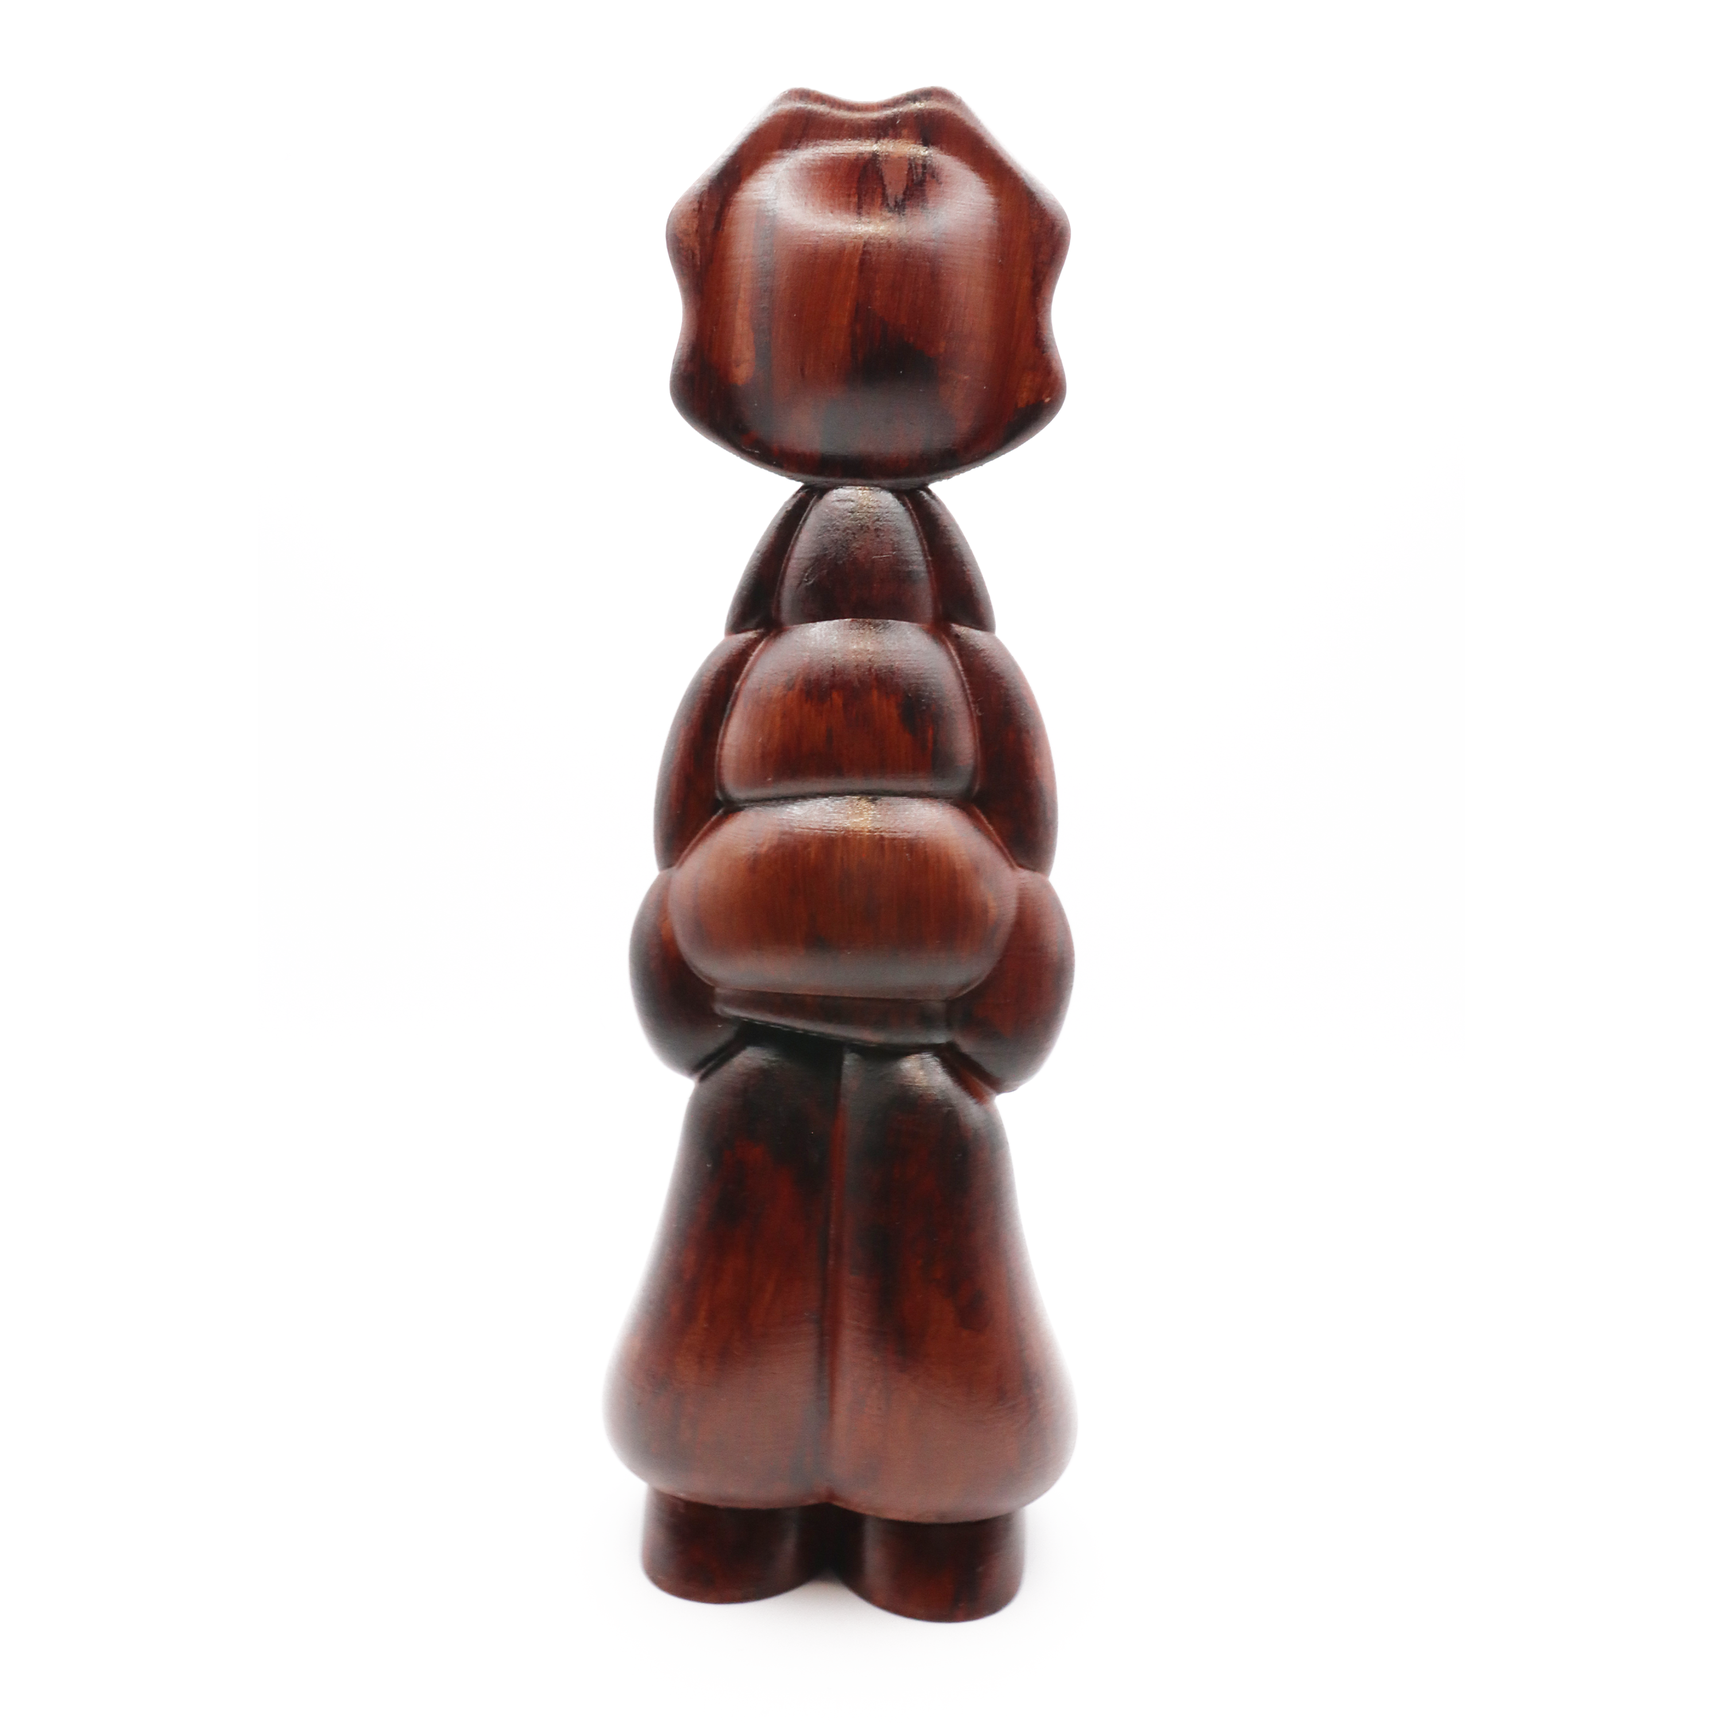
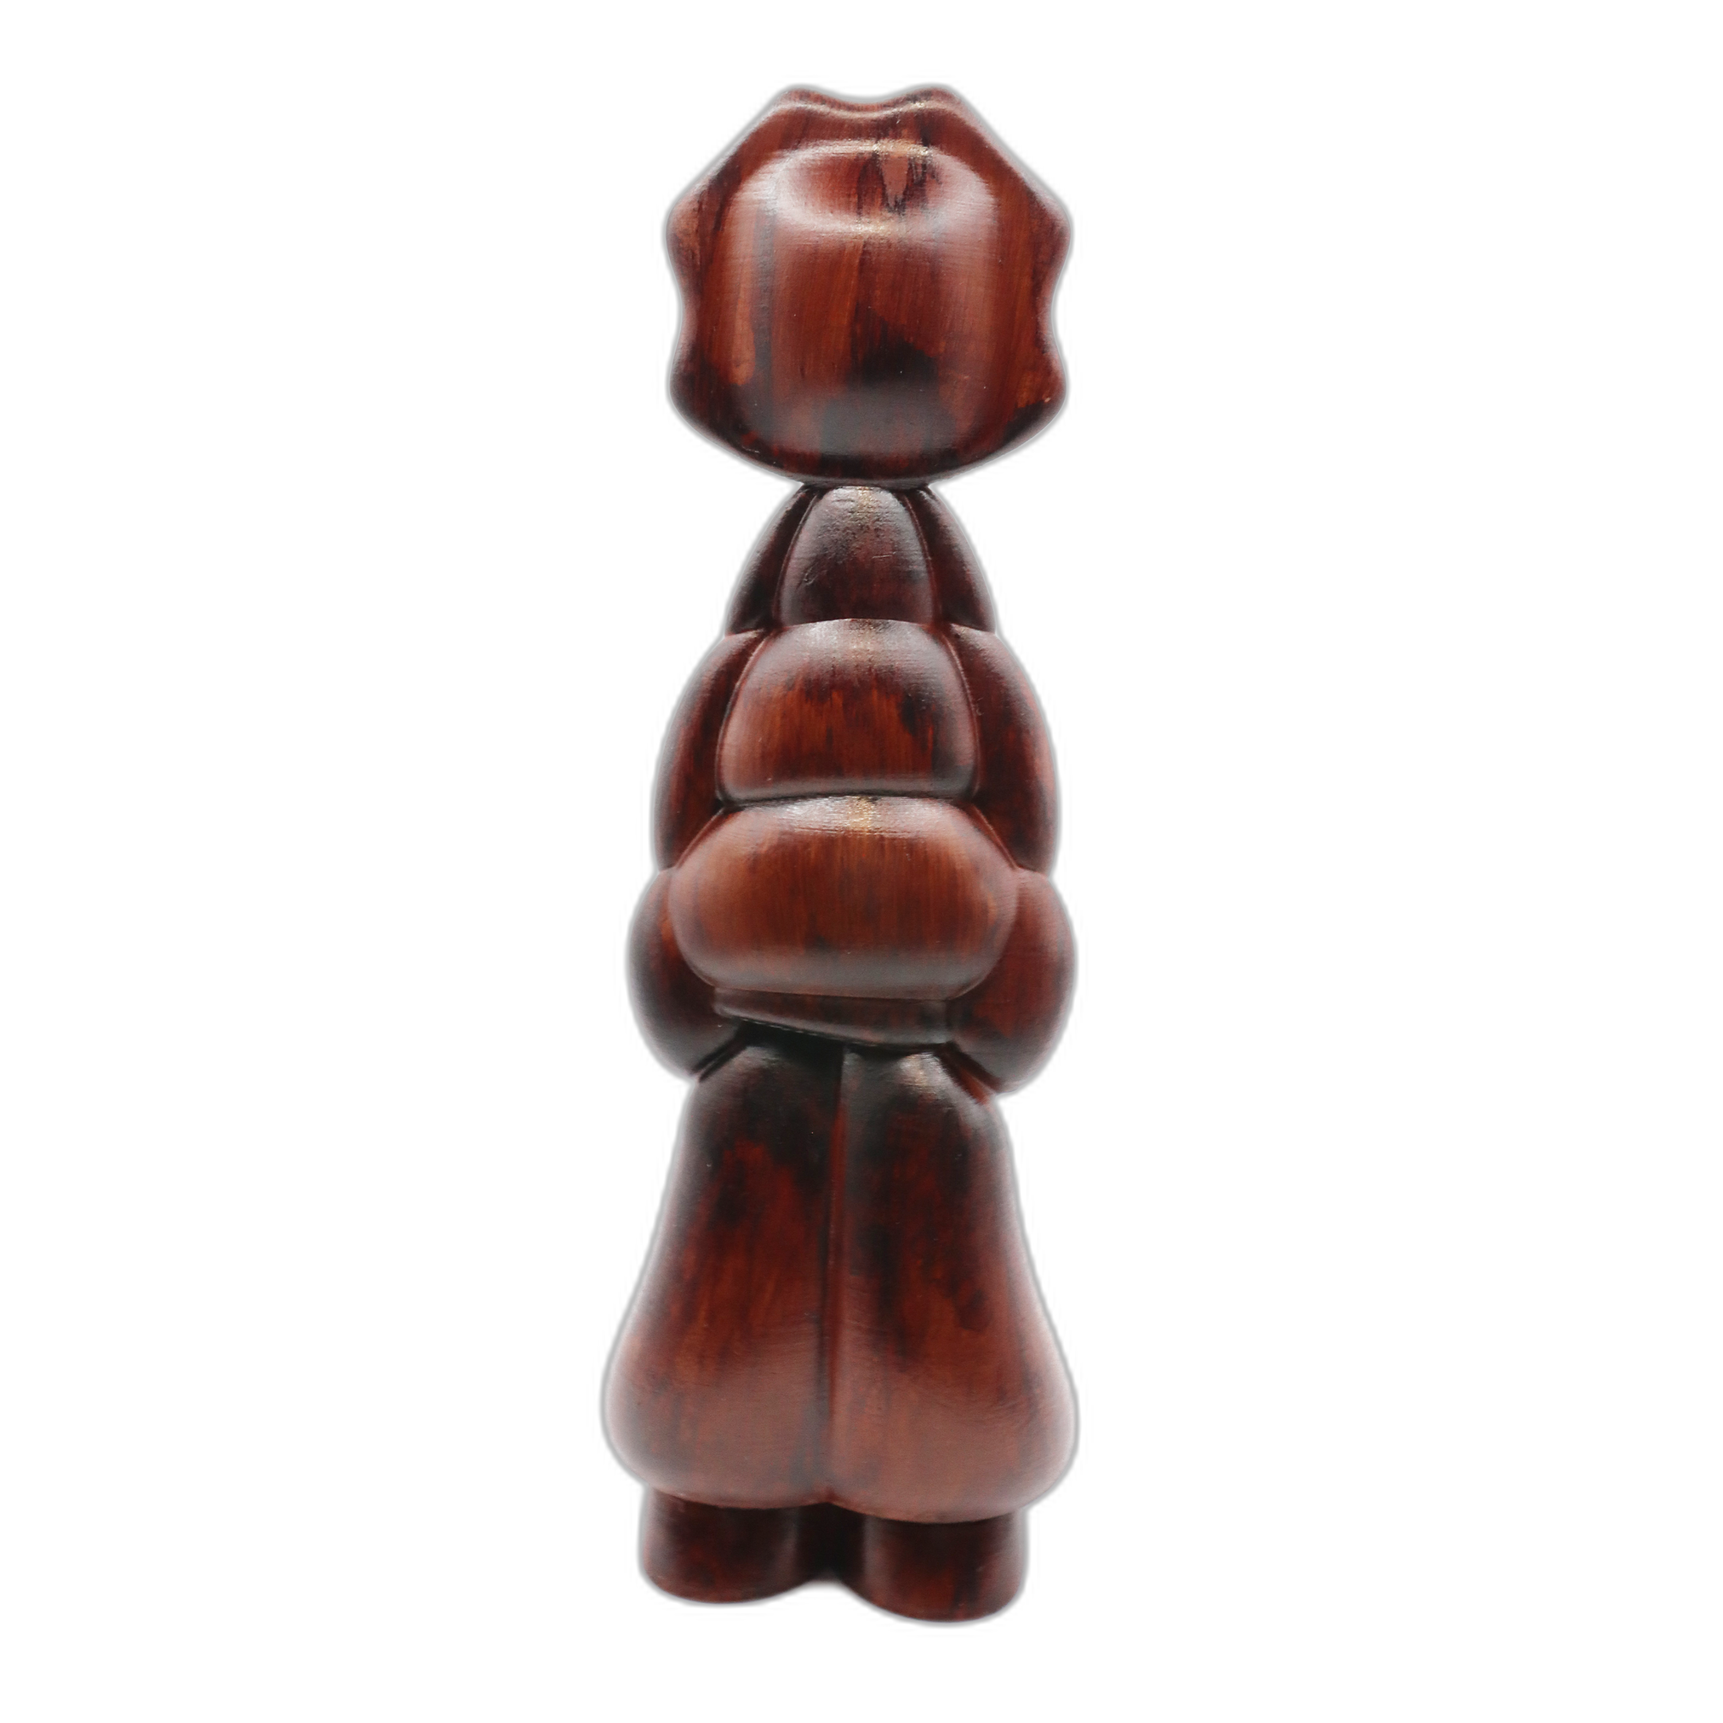
Dark lab-themed shop with AI background removal
- Run rembg on all 16 product images — backgrounds removed
- Shop now matches site dark theme (#0a0a0a + dot grid)
- Products float on dark cards with transparent backgrounds
- Lab aesthetic: 'RSL // Specimen Catalogue', specimen IDs (SPX-001...),
  green monospace accents, green glow on card hover
- Padding matches homepage (18px / 8px / 6px responsive)
- Filter buttons styled to match dark theme

diff --git a/index.html b/index.html
@@ -460,46 +460,62 @@
         /* ── SHOP ─────────────────────────────────────────────────── */
         .shop-wrap {
             min-height: calc(100vh - var(--nav-h));
-            background: #f6f6f4;
-            color: #111;
-            padding-bottom: 80px;
+            background: #0a0a0a;
+            color: #d0d0d0;
+            padding: 0 18px 80px;
+            /* dot grid matches hero */
+            background-image: radial-gradient(circle, rgba(255,255,255,.03) 1px, transparent 1px);
+            background-size: 28px 28px;
+            background-attachment: local;
         }
 
-        /* Header row */
+        /* Header */
         .shop-hd {
             display: flex; align-items: baseline;
             justify-content: space-between; gap: 16px;
-            padding: 36px 0 24px;
+            padding: 36px 0 6px;
+            border-bottom: 1px solid rgba(255,255,255,.06);
+            margin-bottom: 24px;
+        }
+        .shop-hd-left { display: flex; flex-direction: column; gap: 3px; }
+        .shop-hd-label {
+            font-family: 'Courier New', monospace;
+            font-size: 8px; letter-spacing: 3px;
+            color: var(--green); text-transform: uppercase;
         }
         .shop-hd-title {
-            font-size: 11px; font-weight: 600;
-            letter-spacing: 3px; text-transform: uppercase;
-            color: #111;
+            font-size: 22px; font-weight: 700;
+            letter-spacing: -0.5px; color: #e8e8e8;
         }
-        .shop-hd-count { font-size: 11px; color: #aaa; letter-spacing: 1px; }
+        .shop-hd-count {
+            font-family: 'Courier New', monospace;
+            font-size: 9px; color: rgba(255,255,255,.25);
+            letter-spacing: 2px; align-self: flex-end;
+        }
 
         /* Category filter */
-        .shop-filter {
-            display: flex; gap: 6px; padding-bottom: 28px;
-            flex-wrap: wrap;
-        }
+        .shop-filter { display: flex; gap: 6px; padding-bottom: 28px; flex-wrap: wrap; }
         .shop-filter-btn {
-            height: 30px; padding: 0 14px;
-            border: 1px solid #ddd; border-radius: 100px;
+            height: 28px; padding: 0 14px;
+            border: 1px solid rgba(255,255,255,.1); border-radius: 100px;
             background: transparent;
-            font-size: 9px; letter-spacing: 1.5px; text-transform: uppercase;
-            color: #888; cursor: pointer;
+            font-size: 8px; letter-spacing: 2px; text-transform: uppercase;
+            color: rgba(255,255,255,.35); cursor: pointer;
             transition: border-color .15s, color .15s, background .15s;
-            font-family: var(--font);
+            font-family: 'Courier New', monospace;
         }
-        .shop-filter-btn:hover  { border-color: #111; color: #111; }
-        .shop-filter-btn.active { background: #111; border-color: #111; color: #fff; }
+        .shop-filter-btn:hover  { border-color: rgba(255,255,255,.4); color: rgba(255,255,255,.7); }
+        .shop-filter-btn.active {
+            background: rgba(45,213,18,.12);
+            border-color: var(--green);
+            color: var(--green);
+        }
 
         /* Product grid */
         .shop-grid {
             display: grid;
             grid-template-columns: repeat(3, 1fr);
-            gap: 2px;
+            gap: 1px;
         }
         .shop-item { cursor: pointer; }
         .shop-item[hidden] { display: none; }
@@ -507,32 +523,51 @@
         .shop-img-wrap {
             position: relative;
             aspect-ratio: 4/5;
-            background: #e8e8e5;
+            background: #111;
             overflow: hidden;
-            border-radius: 4px;
+            border: 1px solid rgba(255,255,255,.05);
+            transition: border-color .3s;
+        }
+        .shop-item:hover .shop-img-wrap {
+            border-color: rgba(45,213,18,.3);
+            box-shadow: 0 0 24px rgba(45,213,18,.07);
         }
         .shop-img-wrap img {
             width: 100%; height: 100%;
-            object-fit: cover; display: block;
+            object-fit: contain; display: block;
             transition: transform .55s ease;
+            padding: 12%;
         }
-        .shop-item:hover .shop-img-wrap img { transform: scale(1.05); }
+        .shop-item:hover .shop-img-wrap img { transform: scale(1.06); }
 
-        .shop-item-info { padding: 10px 2px 24px; }
-        .shop-item-name {
-            display: block; font-size: 9px; font-weight: 500;
-            letter-spacing: 2px; text-transform: uppercase;
-            color: #111; margin-bottom: 5px;
+        /* Specimen number */
+        .shop-item-spec {
+            font-family: 'Courier New', monospace;
+            font-size: 7px; letter-spacing: 2px;
+            color: rgba(45,213,18,.4);
+            padding: 10px 0 4px;
         }
-        .shop-item-price { font-size: 11px; color: #999; }
+        .shop-item-name {
+            display: block; font-size: 10px; font-weight: 500;
+            letter-spacing: 1.5px; text-transform: uppercase;
+            color: rgba(255,255,255,.75); margin-bottom: 4px;
+        }
+        .shop-item-price {
+            font-family: 'Courier New', monospace;
+            font-size: 11px; color: var(--green);
+            letter-spacing: 1px;
+        }
+        .shop-item-info { padding-bottom: 28px; }
 
         /* Mobile */
         @media (max-width: 900px) {
-            .shop-grid { grid-template-columns: repeat(2, 1fr); gap: 2px; }
-            .shop-hd { padding: 24px 0 18px; }
+            .shop-wrap { padding: 0 8px 60px; }
+            .shop-grid { grid-template-columns: repeat(2, 1fr); }
+            .shop-hd { padding: 24px 0 6px; margin-bottom: 18px; }
         }
         @media (max-width: 600px) {
-            .shop-filter-btn { height: 28px; padding: 0 11px; font-size: 8px; }
+            .shop-wrap { padding: 0 6px 60px; }
+            .shop-filter-btn { height: 26px; padding: 0 10px; font-size: 7px; }
         }
 
         /* ── CONTACT ──────────────────────────────────────────────── */
@@ -1301,8 +1336,11 @@
 
             <!-- HEADER -->
             <div class="shop-hd">
-                <span class="shop-hd-title">Shop</span>
-                <span class="shop-hd-count" id="shop-count">16 items</span>
+                <div class="shop-hd-left">
+                    <span class="shop-hd-label">RSL // Specimen Catalogue</span>
+                    <span class="shop-hd-title">Laboratory Store</span>
+                </div>
+                <span class="shop-hd-count" id="shop-count">16 specimens</span>
             </div>
 
             <!-- FILTER -->
@@ -1318,82 +1356,82 @@
 
                 <div class="shop-item" data-cat="tee">
                     <div class="shop-img-wrap"><img src="store/tee-chill-white.png" alt="Chill Ravi" loading="lazy"></div>
-                    <div class="shop-item-info"><span class="shop-item-name">Chill Ravi</span><span class="shop-item-price">$85</span></div>
+                    <div class="shop-item-info"><div class="shop-item-spec">SPX-001 / TEE</div><span class="shop-item-name">Chill Ravi</span><span class="shop-item-price">$85</span></div>
                 </div>
 
                 <div class="shop-item" data-cat="tee">
                     <div class="shop-img-wrap"><img src="store/tee-chill-orange.png" alt="Chill Ravi Orange" loading="lazy"></div>
-                    <div class="shop-item-info"><span class="shop-item-name">Chill Ravi — Orange</span><span class="shop-item-price">$85</span></div>
+                    <div class="shop-item-info"><div class="shop-item-spec">SPX-002 / TEE</div><span class="shop-item-name">Chill Ravi — Orange</span><span class="shop-item-price">$85</span></div>
                 </div>
 
                 <div class="shop-item" data-cat="tee">
                     <div class="shop-img-wrap"><img src="store/tee-green.png" alt="Green Ravi" loading="lazy"></div>
-                    <div class="shop-item-info"><span class="shop-item-name">Green Ravi</span><span class="shop-item-price">$85</span></div>
+                    <div class="shop-item-info"><div class="shop-item-spec">SPX-003 / TEE</div><span class="shop-item-name">Green Ravi</span><span class="shop-item-price">$85</span></div>
                 </div>
 
                 <div class="shop-item" data-cat="tee">
                     <div class="shop-img-wrap"><img src="store/tee-strong.png" alt="Strong Ravi" loading="lazy"></div>
-                    <div class="shop-item-info"><span class="shop-item-name">Strong Ravi</span><span class="shop-item-price">$85</span></div>
+                    <div class="shop-item-info"><div class="shop-item-spec">SPX-004 / TEE</div><span class="shop-item-name">Strong Ravi</span><span class="shop-item-price">$85</span></div>
                 </div>
 
                 <div class="shop-item" data-cat="tee">
                     <div class="shop-img-wrap"><img src="store/tee-color.png" alt="Ravi in Color" loading="lazy"></div>
-                    <div class="shop-item-info"><span class="shop-item-name">Ravi in Color</span><span class="shop-item-price">$90</span></div>
+                    <div class="shop-item-info"><div class="shop-item-spec">SPX-005 / TEE</div><span class="shop-item-name">Ravi in Color</span><span class="shop-item-price">$90</span></div>
                 </div>
 
                 <div class="shop-item" data-cat="tee">
                     <div class="shop-img-wrap"><img src="store/tee-snake.png" alt="Snake Tee" loading="lazy"></div>
-                    <div class="shop-item-info"><span class="shop-item-name">Snake Tee</span><span class="shop-item-price">$90</span></div>
+                    <div class="shop-item-info"><div class="shop-item-spec">SPX-006 / TEE</div><span class="shop-item-name">Snake Tee</span><span class="shop-item-price">$90</span></div>
                 </div>
 
                 <div class="shop-item" data-cat="tee">
                     <div class="shop-img-wrap"><img src="store/tee-ski.png" alt="Ski Ravi" loading="lazy"></div>
-                    <div class="shop-item-info"><span class="shop-item-name">Ski Ravi</span><span class="shop-item-price">$90</span></div>
+                    <div class="shop-item-info"><div class="shop-item-spec">SPX-007 / TEE</div><span class="shop-item-name">Ski Ravi</span><span class="shop-item-price">$90</span></div>
                 </div>
 
                 <div class="shop-item" data-cat="tee">
                     <div class="shop-img-wrap"><img src="store/tee-fishing.png" alt="Fishing Ravi" loading="lazy"></div>
-                    <div class="shop-item-info"><span class="shop-item-name">Fishing Ravi</span><span class="shop-item-price">$85</span></div>
+                    <div class="shop-item-info"><div class="shop-item-spec">SPX-008 / TEE</div><span class="shop-item-name">Fishing Ravi</span><span class="shop-item-price">$85</span></div>
                 </div>
 
                 <div class="shop-item" data-cat="tee">
                     <div class="shop-img-wrap"><img src="store/tee-clowns.png" alt="Ravi Clowns" loading="lazy"></div>
-                    <div class="shop-item-info"><span class="shop-item-name">Ravi Clowns</span><span class="shop-item-price">$85</span></div>
+                    <div class="shop-item-info"><div class="shop-item-spec">SPX-009 / TEE</div><span class="shop-item-name">Ravi Clowns</span><span class="shop-item-price">$85</span></div>
                 </div>
 
                 <div class="shop-item" data-cat="tee">
                     <div class="shop-img-wrap"><img src="store/tee-mom.png" alt="Mom" loading="lazy"></div>
-                    <div class="shop-item-info"><span class="shop-item-name">Mom</span><span class="shop-item-price">$85</span></div>
+                    <div class="shop-item-info"><div class="shop-item-spec">SPX-010 / TEE</div><span class="shop-item-name">Mom</span><span class="shop-item-price">$85</span></div>
                 </div>
 
                 <div class="shop-item" data-cat="acc">
                     <div class="shop-img-wrap"><img src="store/acc-belt.png" alt="Belt" loading="lazy"></div>
-                    <div class="shop-item-info"><span class="shop-item-name">Belt</span><span class="shop-item-price">$145</span></div>
+                    <div class="shop-item-info"><div class="shop-item-spec">SPX-011 / ACC</div><span class="shop-item-name">Belt</span><span class="shop-item-price">$145</span></div>
                 </div>
 
                 <div class="shop-item" data-cat="acc">
                     <div class="shop-img-wrap"><img src="store/acc-chain.png" alt="Chain" loading="lazy"></div>
-                    <div class="shop-item-info"><span class="shop-item-name">Chain</span><span class="shop-item-price">$199</span></div>
+                    <div class="shop-item-info"><div class="shop-item-spec">SPX-012 / ACC</div><span class="shop-item-name">Chain</span><span class="shop-item-price">$199</span></div>
                 </div>
 
                 <div class="shop-item" data-cat="acc">
                     <div class="shop-img-wrap"><img src="store/acc-watch.png" alt="Timepiece" loading="lazy"></div>
-                    <div class="shop-item-info"><span class="shop-item-name">Timepiece</span><span class="shop-item-price">$599</span></div>
+                    <div class="shop-item-info"><div class="shop-item-spec">SPX-013 / ACC</div><span class="shop-item-name">Timepiece</span><span class="shop-item-price">$599</span></div>
                 </div>
 
                 <div class="shop-item" data-cat="obj">
                     <div class="shop-img-wrap"><img src="store/obj-buddha.png" alt="Buddha Ravi" loading="lazy"></div>
-                    <div class="shop-item-info"><span class="shop-item-name">Buddha Ravi</span><span class="shop-item-price">$350</span></div>
+                    <div class="shop-item-info"><div class="shop-item-spec">SPX-014 / OBJ</div><span class="shop-item-name">Buddha Ravi</span><span class="shop-item-price">$350</span></div>
                 </div>
 
                 <div class="shop-item" data-cat="obj">
                     <div class="shop-img-wrap"><img src="store/obj-wood.png" alt="Wood Ravi" loading="lazy"></div>
-                    <div class="shop-item-info"><span class="shop-item-name">Wood Ravi</span><span class="shop-item-price">$280</span></div>
+                    <div class="shop-item-info"><div class="shop-item-spec">SPX-015 / OBJ</div><span class="shop-item-name">Wood Ravi</span><span class="shop-item-price">$280</span></div>
                 </div>
 
                 <div class="shop-item" data-cat="obj">
                     <div class="shop-img-wrap"><img src="store/obj-horse.png" alt="Blue Horse" loading="lazy"></div>
-                    <div class="shop-item-info"><span class="shop-item-name">Blue Horse</span><span class="shop-item-price">$320</span></div>
+                    <div class="shop-item-info"><div class="shop-item-spec">SPX-016 / OBJ</div><span class="shop-item-name">Blue Horse</span><span class="shop-item-price">$320</span></div>
                 </div>
 
             </div><!-- /shop-grid -->
@@ -1782,7 +1820,7 @@ function filterShop(cat) {
         item.hidden = !show;
         if (show) count++;
     });
-    document.getElementById('shop-count').textContent = count + ' item' + (count !== 1 ? 's' : '');
+    document.getElementById('shop-count').textContent = count + ' specimen' + (count !== 1 ? 's' : '');
 }
 
 // ── Contact ───────────────────────────────────────────────────────
